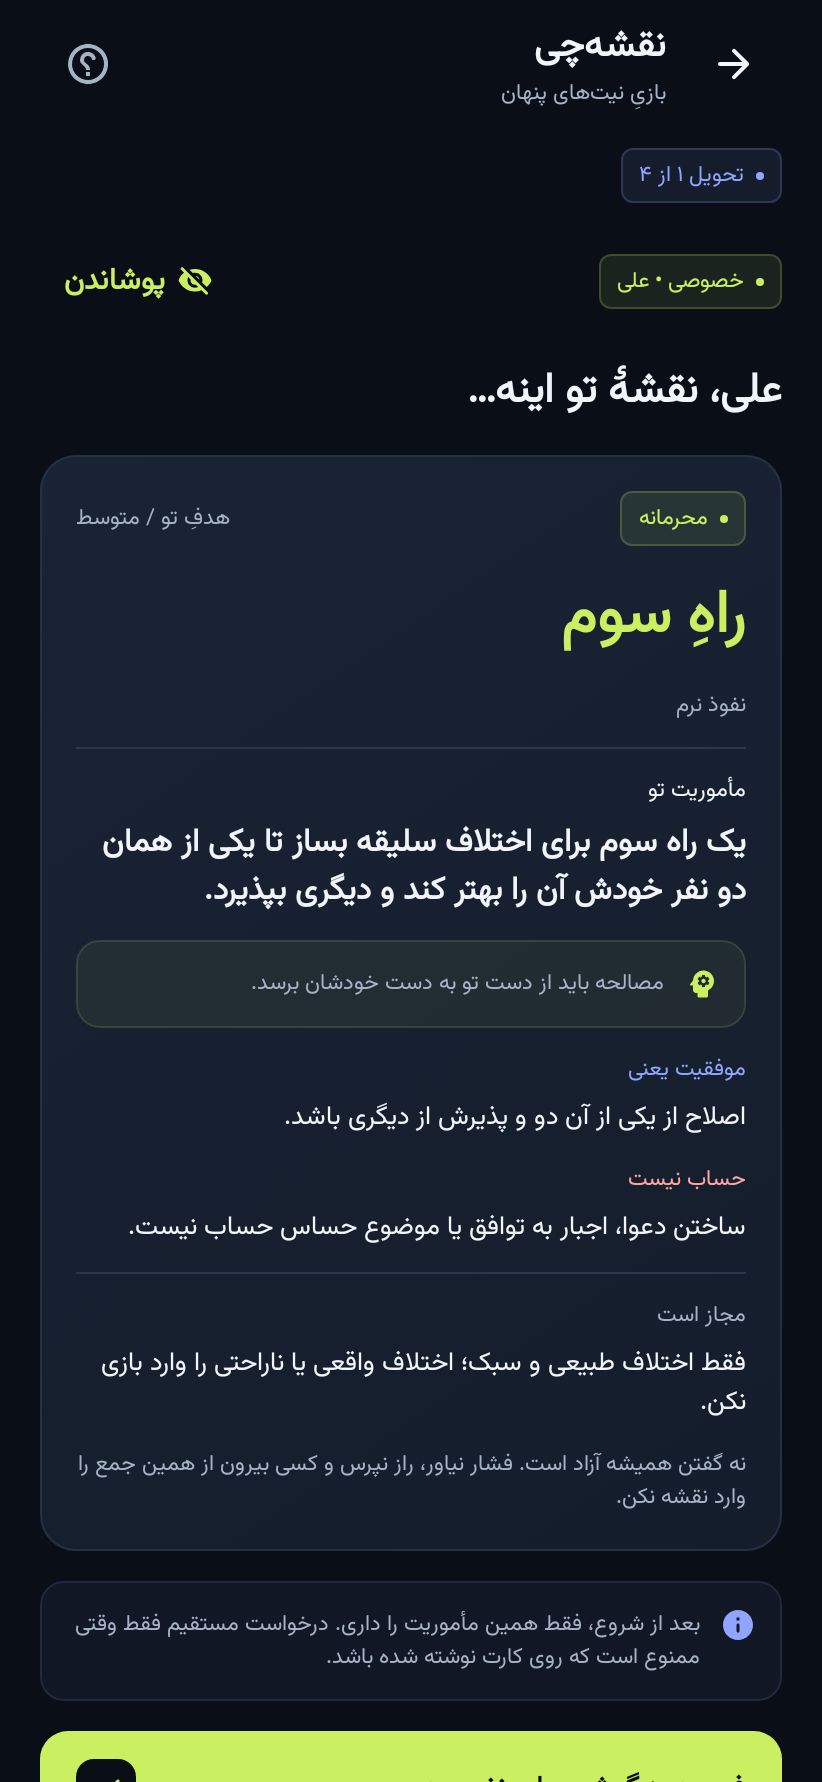
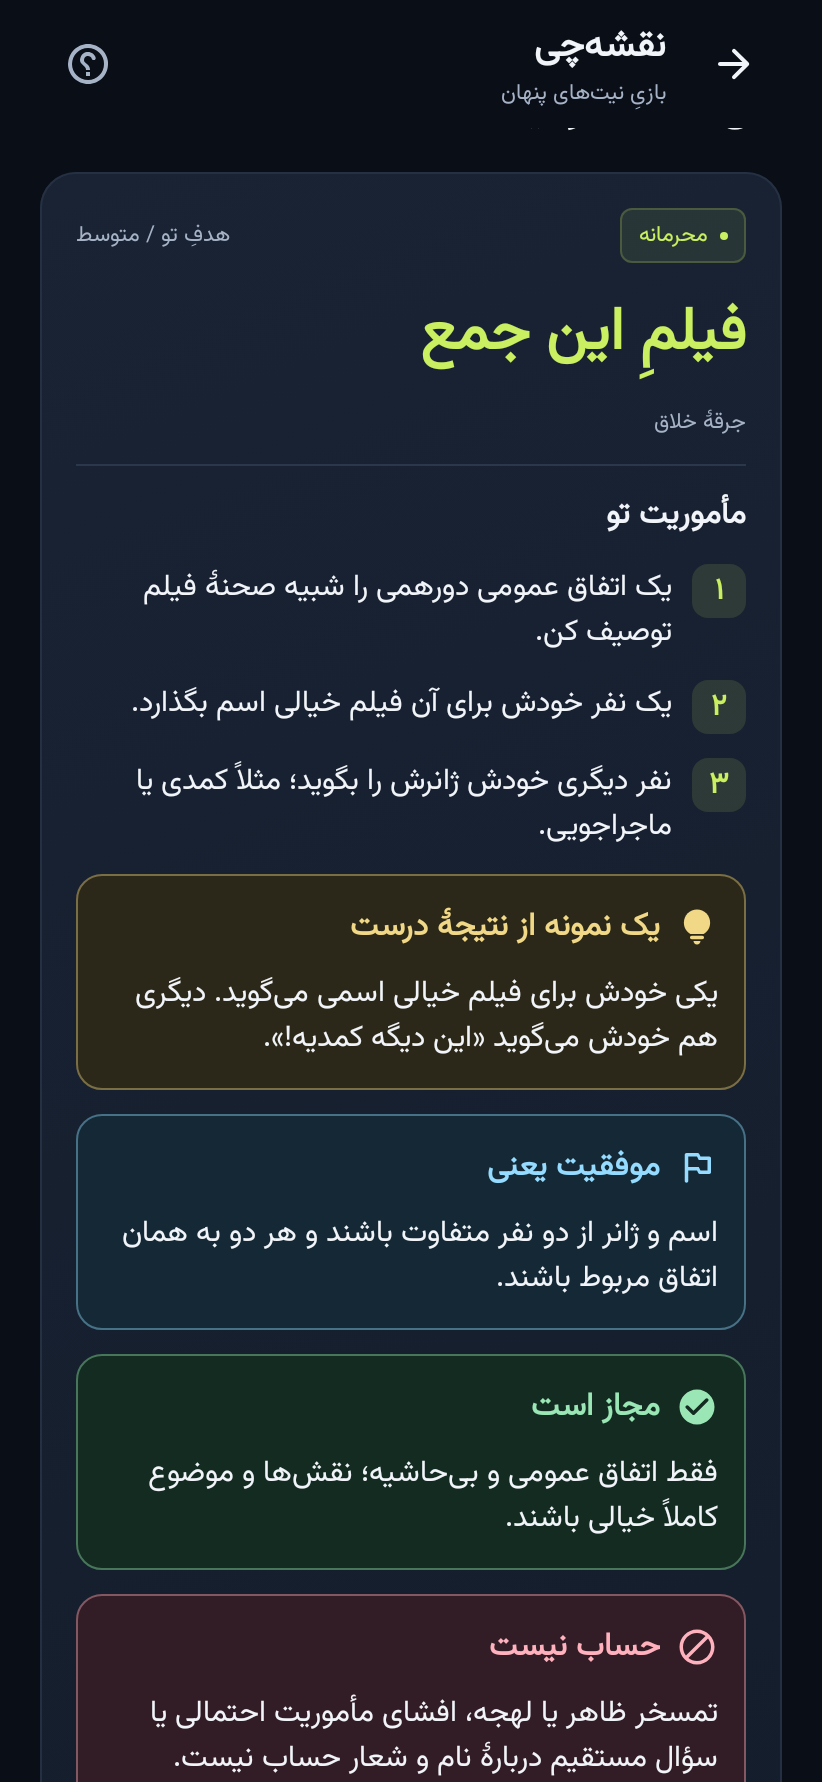
docs: show numbered mission guidance and color-coded rules

diff --git a/docs/VERIFICATION.md b/docs/VERIFICATION.md
@@ -1,18 +1,18 @@
-# بررسی نسخهٔ ۰٫۲ — بازطراحی
+# بررسی نسخهٔ ۰٫۲٫۱ — توضیح روشن کارتها
 
 تاریخ: ۴ آبان ۱۴۰۵ / 2026-10-26  
-کد اجرایی بررسیشده: `3f3125941931be0d35adccd3e795aad15930d5ad`
+کد اجرایی بررسیشده: `9c36b9558a4e08da0f803794dd58e18cf9ff7096`
 
 ## نتیجه
 
 | بررسی | نتیجه |
 |---|---|
-| تست قواعد، محتوا، حدس، امتیاز، زمان، پشتیبان و حریم خصوصی درخواست | ۱۷ تست موفق؛ شامل منع محتوای قدیمی، اجازهٔ عکس و حالت بدون زمان |
+| تست قواعد، محتوا، حدس، امتیاز، زمان، پشتیبان و حریم خصوصی درخواست | ۱۹ تست موفق؛ شامل توضیح مرحلهای تمام کارتهای متوسط و جلوگیری از انتخاب نسخهٔ قدیمی متن |
 | پاسخ موفق و خطای API، پاسخ ناقص و بزرگ، عدم ارسال اسم واقعی | ۴ تست موفق با پاسخ شبیهسازیشده |
 | مسیر کامل رابط، بازسازی Activity، صفحهٔ کوچک و عملیات بدون زمان | ۳ تست موفق |
-| Android lint، debug و release | بدون خطا؛ دو هشدار نسخهای بررسیشده |
+| Android lint، debug و release | بدون خطا؛ چهار هشدار غیرمسدودکنندهٔ نسخه و آیکن |
 | ساخت APK آزمایشی و release بدون امضای انتشار | موفق |
-| ساخت خودکار گیتهاب و انتشار preview | [موفق](https://github.com/maboox/Planer/actions/runs/40304612927) |
+| ساخت خودکار گیتهاب و انتشار preview | [ساخت و تست موفق](https://github.com/maboox/Planer/actions/runs/40311150238)؛ فایل preview پس از ساخت بهروز میشود |
 | اسکن منابع برای کلید و اطلاعات محرمانه با Gitleaks | موردی پیدا نشد |
 | بررسی ۸۹ وابستگی اجرایی Maven با OSV | آسیبپذیری گزارششدهای برای نسخههای بررسیشده برنگشت |
 
@@ -24,10 +24,14 @@
 
 آزمون جداگانهٔ بدون زمان، نبود شمارش معکوس و باقیماندن بازی تا پایان دستی را بررسی میکند. آیکن از منبع واقعی `mipmap/ic_launcher` رندر شده است، نه تصویر پیشفرض شبیهساز.
 
+۲۶ تست کامل موفق بودهاند. تمام ۴۲ کارت متوسط دارای ۲ یا ۳ مرحله و مثالاند؛ طول خلاصهٔ هدف حداکثر ۸۲ نویسه و هر مرحله حداکثر ۷۴ نویسه است. یک اجرای جداگانهٔ جریان کامل نیز برای ثبت تصویر مرحلهها و سه باکس قواعد انجام شده است. تصویرها با ابزار مشاهدهٔ تصویر باز و خوانایی و تفاوت رنگها بررسی شدند.
+
 ## هشدارهای باقیمانده
 
 - `OldTargetApi`: هدف فعلی API 36 است، نه 37. پیش از انتشار بازار باید الزام روز فروشگاه بررسی شود.
 - `GradleDependency`: OkHttp 5.3.2 انتخاب شده؛ نسخهٔ جدیدتر 5.5.1 به compile SDK 37 نیاز دارد. ارتقا بهصورت یک مجموعهٔ سازگار از SDK و ابزار ساخت انجام میشود، نه صرفاً تغییر یک شماره.
+- `ObsoleteSdkInt`: وجود پوشهٔ آیکن v26 با حداقل SDK 26 اضافی است و روی اجرای برنامه اثر ندارد.
+- `MonochromeLauncherIcon`: نسخهٔ تکرنگ آیکن برای تمهای سیستم هنوز تعریف نشده؛ آیکن رنگی تطبیقی موجود است.
 
 هشدارها با baseline یا خاموشکردن بررسی پنهان نشدهاند.
 

diff --git a/README.md b/README.md
@@ -55,7 +55,7 @@
 <p align="center">
   <img src="docs/screenshots/home.png" width="240" alt="خانه" />
   <img src="docs/screenshots/difficulty.png" width="240" alt="سطح مأموریت" />
-  <img src="docs/screenshots/mission.png" width="240" alt="کارت مأموریت خصوصی" />
+  <img src="docs/screenshots/mission-steps.png" width="240" alt="مراحل روشن مأموریت متوسط" />
 </p>
 
 ### نقشه چه فرقی با یک کار ساده دارد؟
@@ -69,7 +69,7 @@
 در سطح سخت، ایده ممکن است از واسطه عبور کند یا بعد از تغییر موضوع برگردد. سختی صرفاً با زیادکردن تعداد افراد ساخته نشده است. [معیار طراحی محتوا](docs/CONTENT_DESIGN.fa.md)
 <p align="center">
   <img src="docs/screenshots/untimed.png" width="240" alt="عملیات بدون زمان" />
-  <img src="docs/screenshots/reveal.png" width="240" alt="افشای مأموریت" />
+  <img src="docs/screenshots/mission.png" width="240" alt="باکسهای رنگی مجاز و غیرمجاز" />
   <img src="docs/screenshots/results.png" width="240" alt="نتیجه و جدول" />
 </p>
 
